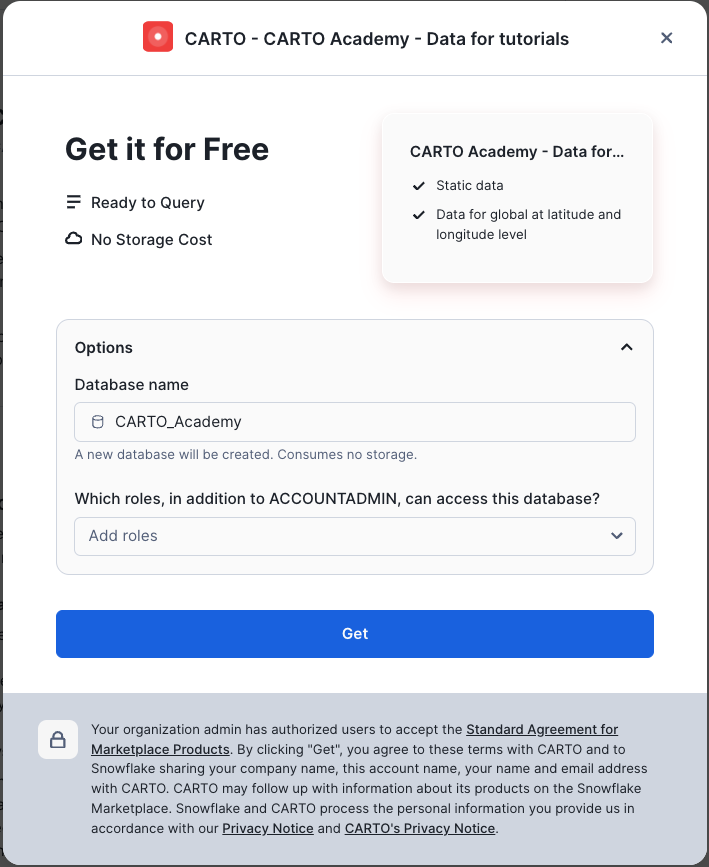
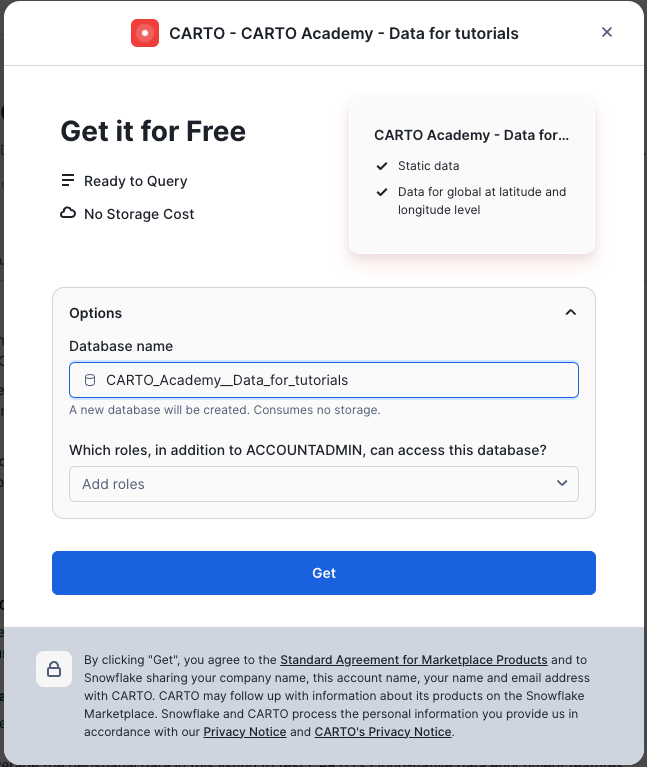
updated the content for geo ML lab

diff --git a/site/sfguides/src/geo-for-machine-learning/machine-learning-using-geospatial.md b/site/sfguides/src/geo-for-machine-learning/machine-learning-using-geospatial.md
@@ -78,7 +78,7 @@ Navigate to the query editor by clicking on `Worksheets` on the top left navigat
 
 <img src ='assets/geo_ml_3.png' width=700>
 
-Create a new database and schema where you will store datasets in the `GEOMETRY` data type. Copy & paste the SQL below into your worksheet editor, put your cursor somewhere in the text of the query you want to run (usually the beginning or end), and either click the blue "Play" button in the upper right of your browser window, or press `CTRL+Enter` or `CMD+Enter` (Windows or Mac) to run the query.
+Create a new database and schema where you will store datasets in the `GEOGRAPHY` data type. Copy & paste the SQL below into your worksheet editor, put your cursor somewhere in the text of the query you want to run (usually the beginning or end), and either click the blue "Play" button in the upper right of your browser window, or press `CTRL+Enter` or `CMD+Enter` (Windows or Mac) to run the query.
 
 ```
 CREATE DATABASE advanced_analytics;
@@ -86,7 +86,6 @@ CREATE DATABASE advanced_analytics;
 USE advanced_analytics.public;
 USE WAREHOUSE my_wh;
 ALTER SESSION SET GEOGRAPHY_OUTPUT_FORMAT='WKT';
-ALTER SESSION SET USE_CACHED_RESULT = FALSE;
 ```
 ## Forecasting time series on a map
 
@@ -115,8 +114,6 @@ The New York Taxi and Limousine Commission (TLC) has provided detailed, anonymiz
 > aside negative
 >  On the `Get` screen, you may be prompted to complete your `user profile` if you have not done so before. Click the link as shown in the screenshot below. Enter your name and email address into the profile screen and click the blue `Save` button. You will be returned to the `Get` screen.
 
-change the name of the database from the default to `Carto_Academy`, as all future instructions will assume this name for the database.
-
 <img src ='assets/geo_ml_10.png' width=500>
 
 Another dataset you will use is events data and you can also get it from the Snowflake Marketplace. It is provided by PredictHQ and called [PredictHQ Quickstart Demo](https://app.snowflake.com/marketplace/listing/GZSTZ3TGTNLQM/predicthq-quickstart-demo).
@@ -125,7 +122,7 @@ Another dataset you will use is events data and you can also get it from the Sno
 
 <img src ='assets/geo_ml_4.png' width=700>
 
-* On the `Get Data` screen, change the name of the database from the default to `PredictHQ_Demo`.
+* On the `Get Data` screen click `Get`.
 
 <img src ='assets/geo_ml_6.png' width=500>
 
@@ -142,10 +139,10 @@ H3 offers 16 different resolutions for dividing areas into hexagons, ranging fro
 As a source of the trips data you will use `TLC_YELLOW_TRIPS_2014` and `TLC_YELLOW_TRIPS_2015` tables from the CARTO listing. We are interested in the following fields:
 * Pickup Time
 * Dropoff Time
-* Distance
-* Pickup Location
-* Dropoff Location
-* Total Amount
+* Pickup Latitude
+* Pickup Longitude
+* Dropoff Latitude
+* Dropoff Longitude
 
 First, specify the default Database, Schema and the Warehouse:
 ```
@@ -165,23 +162,19 @@ SELECT CONVERT_TIMEZONE('UTC', 'America/New_York', to_timestamp(PICKUP_DATETIME:
        CONVERT_TIMEZONE('UTC', 'America/New_York', to_timestamp(DROPOFF_DATETIME::varchar)) DROPOFF_TIME,
        st_point(PICKUP_LONGITUDE, PICKUP_LATITUDE) AS PICKUP_LOCATION,
        st_point(DROPOFF_LONGITUDE, DROPOFF_LATITUDE) AS DROPOFF_LOCATION,
-       trip_distance,
-       total_amount
-FROM CARTO_ACADEMY.CARTO.TLC_YELLOW_TRIPS_2014
+FROM CARTO_ACADEMY__DATA_FOR_TUTORIALS.CARTO.TLC_YELLOW_TRIPS_2014
 WHERE pickup_latitude BETWEEN -90 AND 90
   AND dropoff_latitude BETWEEN -90 AND 90
   AND pickup_longitude BETWEEN -180 AND 180
   AND dropoff_longitude BETWEEN -180 AND 180
   AND st_distance(st_point(PICKUP_LONGITUDE, PICKUP_LATITUDE), st_point(DROPOFF_LONGITUDE, DROPOFF_LATITUDE)) > 10
-  AND TIMEDIFF(MINUTE, to_timestamp(PICKUP_DATETIME::varchar), to_timestamp(DROPOFF_DATETIME::varchar)) > 1
+  AND TIMEDIFF(MINUTE, PICKUP_TIME, DROPOFF_TIME) > 1
 UNION ALL
 SELECT CONVERT_TIMEZONE('UTC', 'America/New_York', to_timestamp(PICKUP_DATETIME::varchar)) PICKUP_TIME,
        CONVERT_TIMEZONE('UTC', 'America/New_York', to_timestamp(DROPOFF_DATETIME::varchar)) DROPOFF_TIME,
        st_point(PICKUP_LONGITUDE, PICKUP_LATITUDE) AS PICKUP_LOCATION,
        st_point(DROPOFF_LONGITUDE, DROPOFF_LATITUDE) AS DROPOFF_LOCATION,
-       trip_distance,
-       total_amount
-FROM CARTO_ACADEMY.CARTO.TLC_YELLOW_TRIPS_2015
+FROM CARTO_ACADEMY__DATA_FOR_TUTORIALS.CARTO.TLC_YELLOW_TRIPS_2015
 WHERE pickup_latitude BETWEEN -90 AND 90
   AND dropoff_latitude BETWEEN -90 AND 90
   AND pickup_longitude BETWEEN -180 AND 180
@@ -247,14 +240,14 @@ SELECT t1.*,
        IFF(t4.category = 'sports', t4.labels[0]::string, 'None') AS sport_event
 FROM advanced_analytics.public.ny_taxi_rides_h3 t1
 LEFT JOIN (SELECT distinct title, category, event_start, event_end, labels 
-           FROM PREDICTHQ_DEMO.PREDICTHQ.PREDICTHQ_EVENTS_SNOWFLAKE_SUMMIT_2024 
+           FROM QUICKSTART_DEMO.PREDICTHQ.PREDICTHQ_EVENTS_SNOWFLAKE_SUMMIT_2024 
            WHERE category = 'school-holidays' and title ilike 'New York%') t2 
     ON DATE(t1.pickup_time) between t2.event_start AND t2.event_end
 LEFT JOIN (SELECT distinct title, category, event_start, event_end, labels 
-           FROM PREDICTHQ_DEMO.PREDICTHQ.PREDICTHQ_EVENTS_SNOWFLAKE_SUMMIT_2024 
+           FROM QUICKSTART_DEMO.PREDICTHQ.PREDICTHQ_EVENTS_SNOWFLAKE_SUMMIT_2024 
            WHERE array_contains('holiday-national'::variant, labels)) t3 
     ON DATE(t1.pickup_time) between t3.event_start AND t3.event_end
-LEFT JOIN (SELECT * from PREDICTHQ_DEMO.PREDICTHQ.PREDICTHQ_EVENTS_SNOWFLAKE_SUMMIT_2024 
+LEFT JOIN (SELECT * from QUICKSTART_DEMO.PREDICTHQ.PREDICTHQ_EVENTS_SNOWFLAKE_SUMMIT_2024 
            WHERE phq_rank > 70 and category = 'sports') t4 
     ON t1.pickup_time = date_trunc('hour', t4.event_start) 
     AND t1.h3 = h3_point_to_cell_string(t4.geo, 8);
